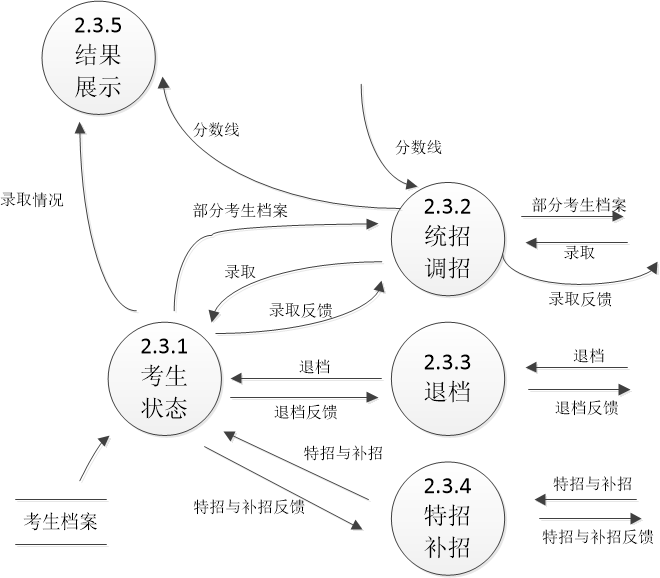
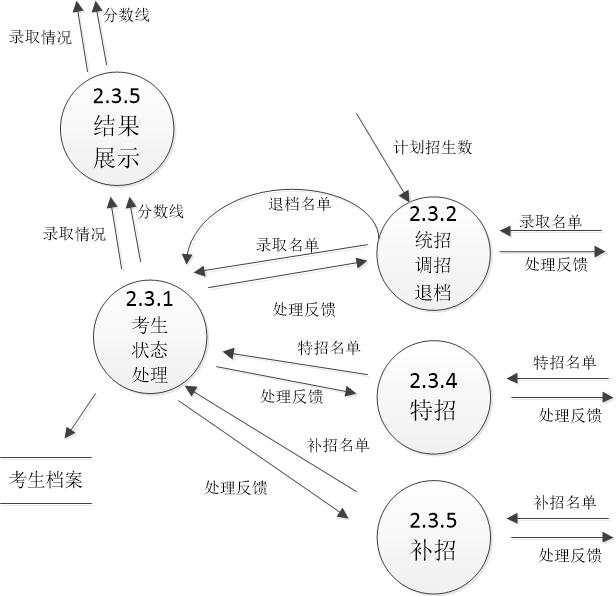
update DFD

diff --git a/Data Flow Diagram/README.md b/Data Flow Diagram/README.md
@@ -20,6 +20,19 @@
 2.3.1部件只维护考生状态，即当前是录、退、补、特
 <br>
 2.3.5包括打印功能，写在加工说明里^_^
-
+<br>
+<br>
+5月16日更新说明：
+<br>
+修改了很多地方
+<br>
+首先增加了考生可以查询招生信息的功能
+<br>
+其次审核后的招生信息我保存在了文件里
+<br>
+最后2.3.5模块之前忘记输出了  这里应该把录取情况和分数线输出
+<br>
+<br>
+还是改了好多地方的😂大家注意看吧
 
 
